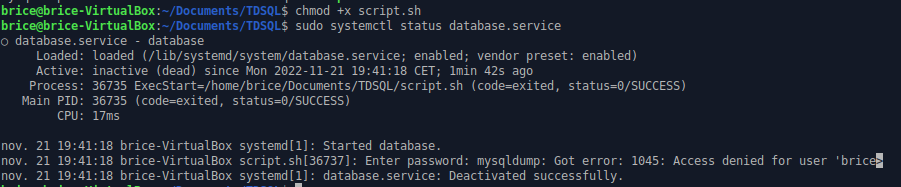
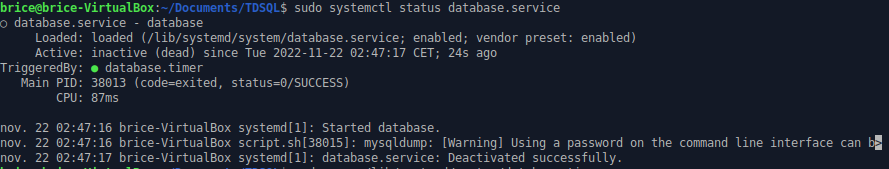
linux

Changed region(s): [[0.0, 0.0, 0.7593, 0.6509], [0.0, 0.7101, 1.0, 1.0]]

diff --git a/Linux/TDSQL/setup-dump-database-logs-cleanup.md b/Linux/TDSQL/setup-dump-database-logs-cleanup.md
@@ -60,7 +60,24 @@ Maintenant je consulte mysql.log avec la commande
 ````shell
 tail -f /var/log/mysql.log
 ````
+````shell
+nano /etc/logrotate.conf
+````
 
-Mais en ce qui concerne cette partie sur les logs, je n'ai pas encore bien compris leur utilisation...
+Mais en ce qui concerne cette partie sur les logs, je n'ai pas encore bien compris l'utilisation...
+
+J'ai donc changé mon fusil d'épaule et je me suis concentré sur l'envoi des logs avec la commande "echo".
+J'ai donc rajouté dans le script.sh la requete suivante:
+
+````shell
+echo "sauvegarde effectuée" >> /var/log/database.log
+````
+
+Par la suite, j'ai compris que pour controler la taille du fichier pour les logs, je devais utilisé la commande "ulimit":
+
+````shell
+$ ulimit -S<-f> <Valeur>
+````
+L'option "-f" permet de controler la taille du fichier.
 
 

diff --git a/Linux/TDSQL/setup-dump-database-service.md b/Linux/TDSQL/setup-dump-database-service.md
@@ -28,13 +28,7 @@ sudo systemctl start database.service
 
 sudo systemctl status database.service
 ````
-
-Malheureusement, je n'obtiens pas ce qui est prévu, l'activation du service échoue.
-
 ![image](./../Images/TDSQL5.png)
-
-Par contre, je suis parvenu à faire fonctionner le timer:
-
 ![image](./../Images/TDSQL6.png)
 
 
